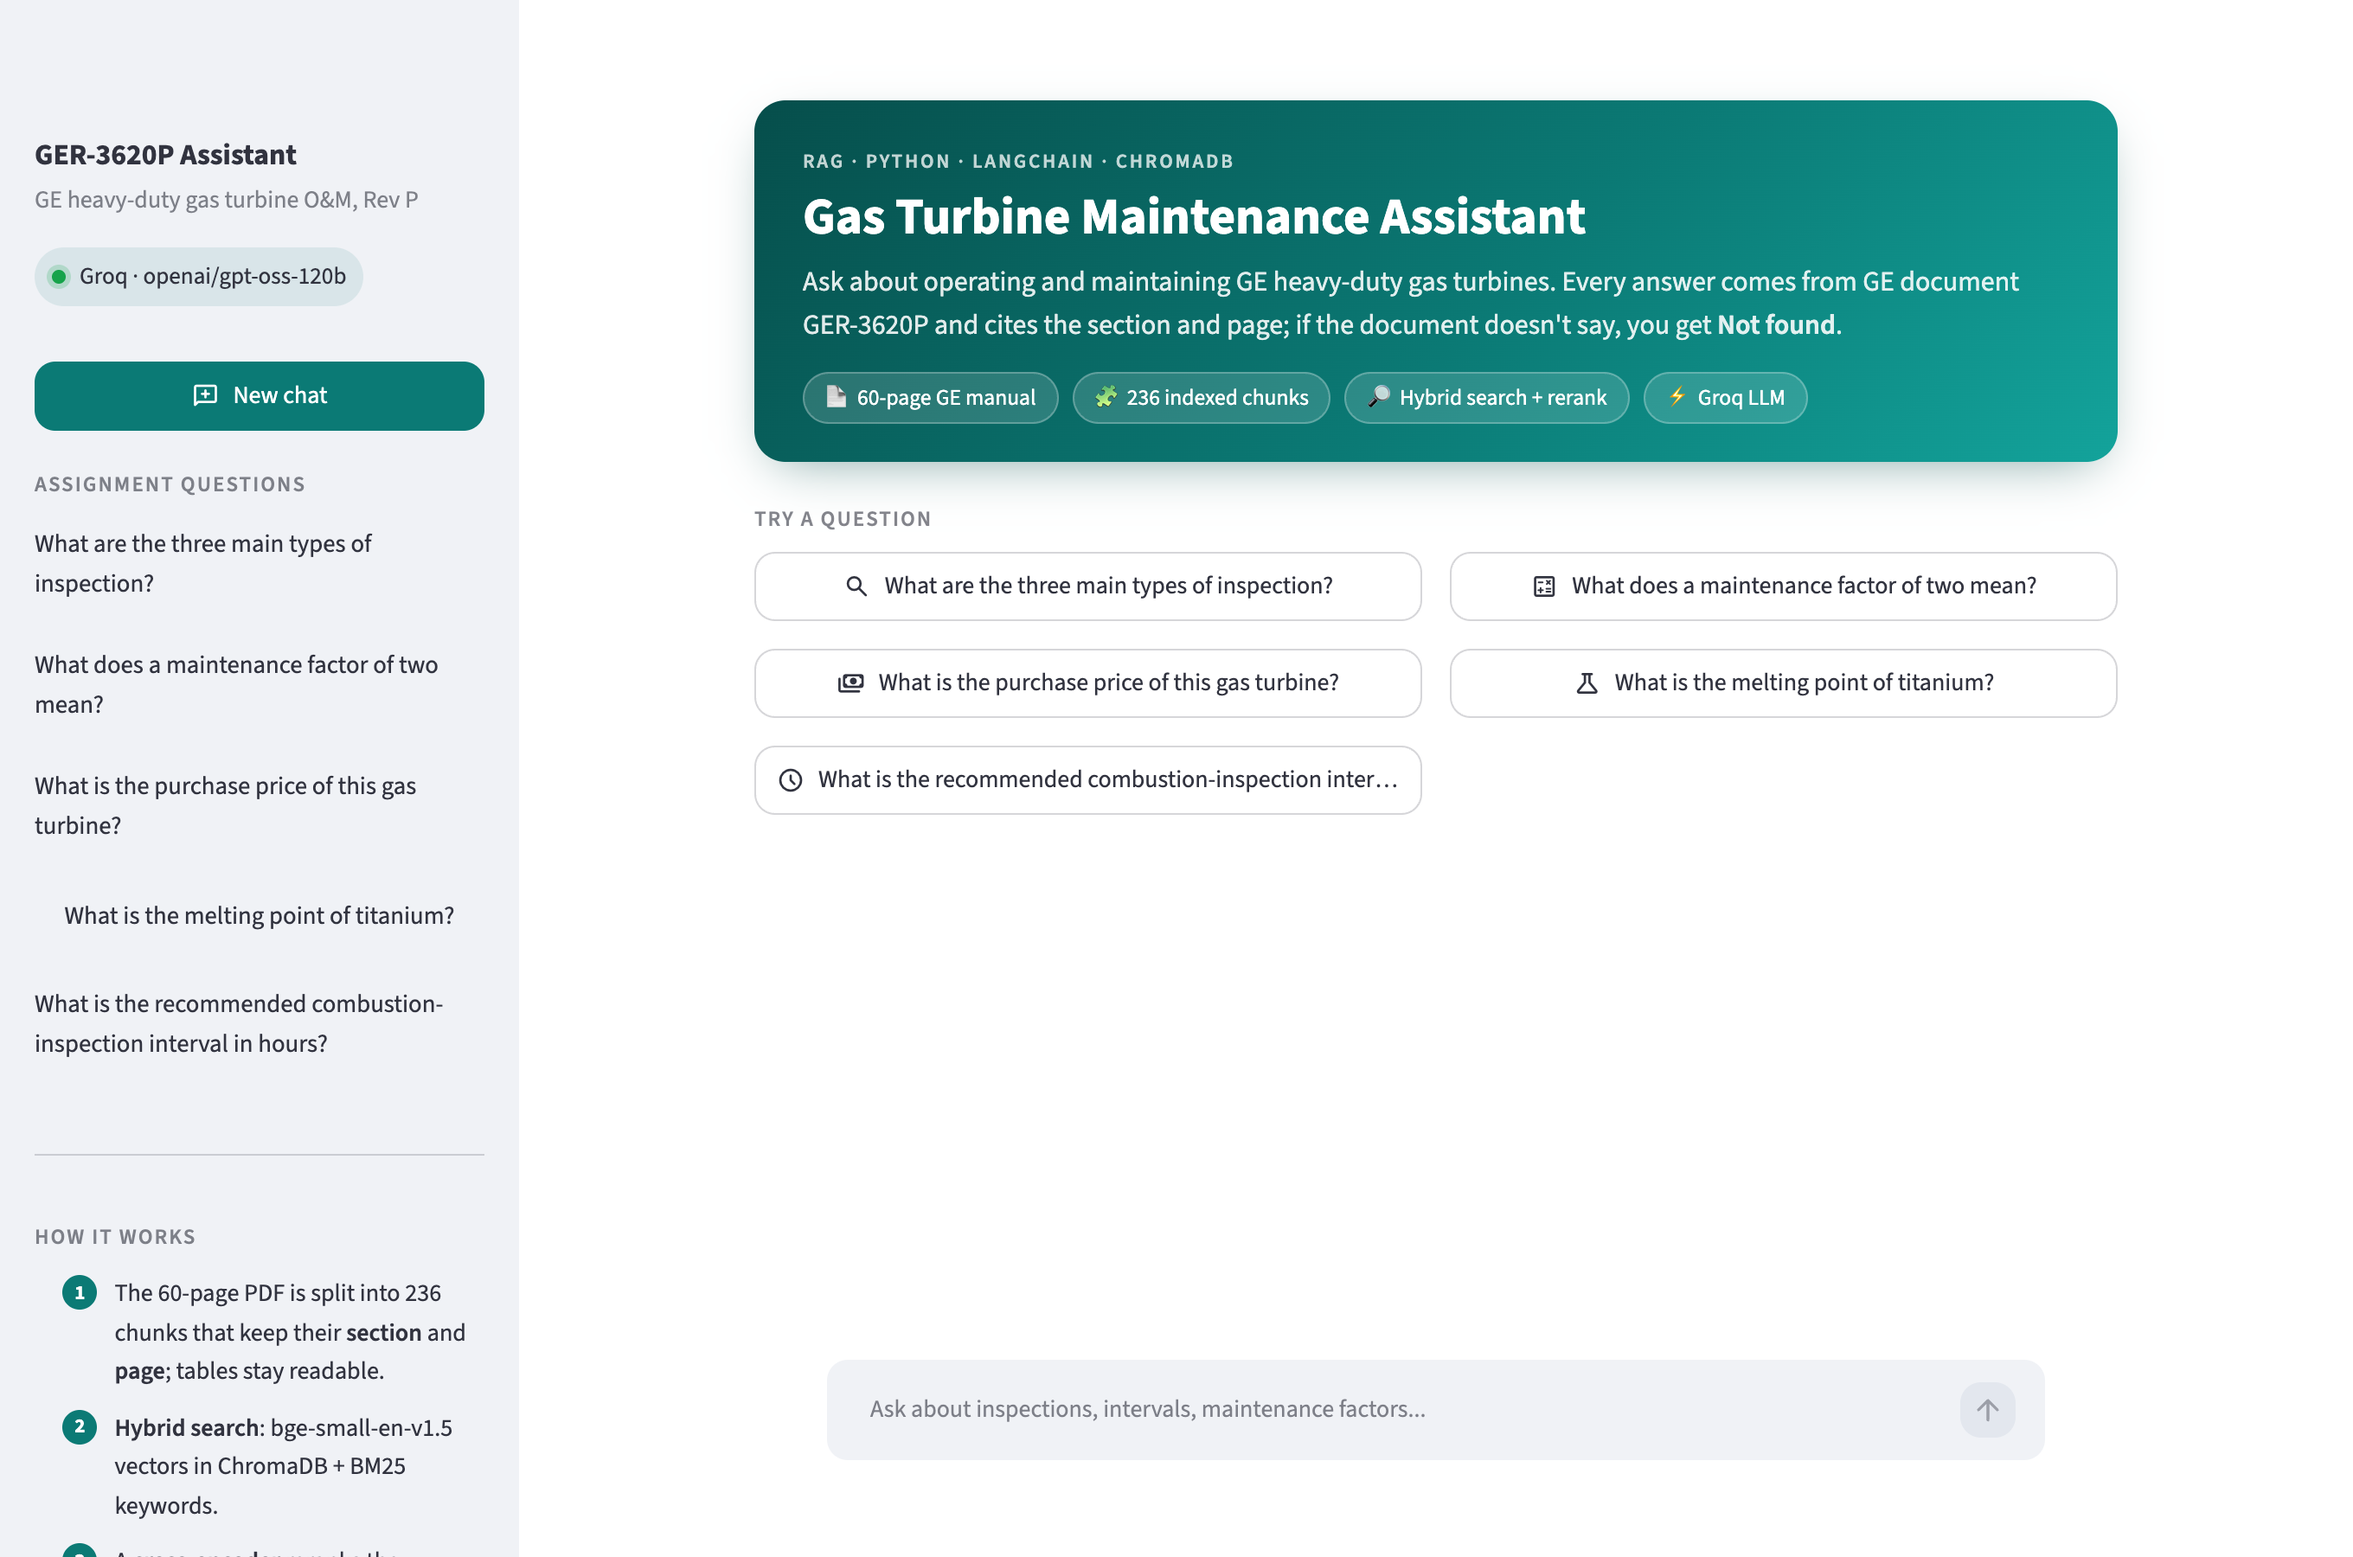
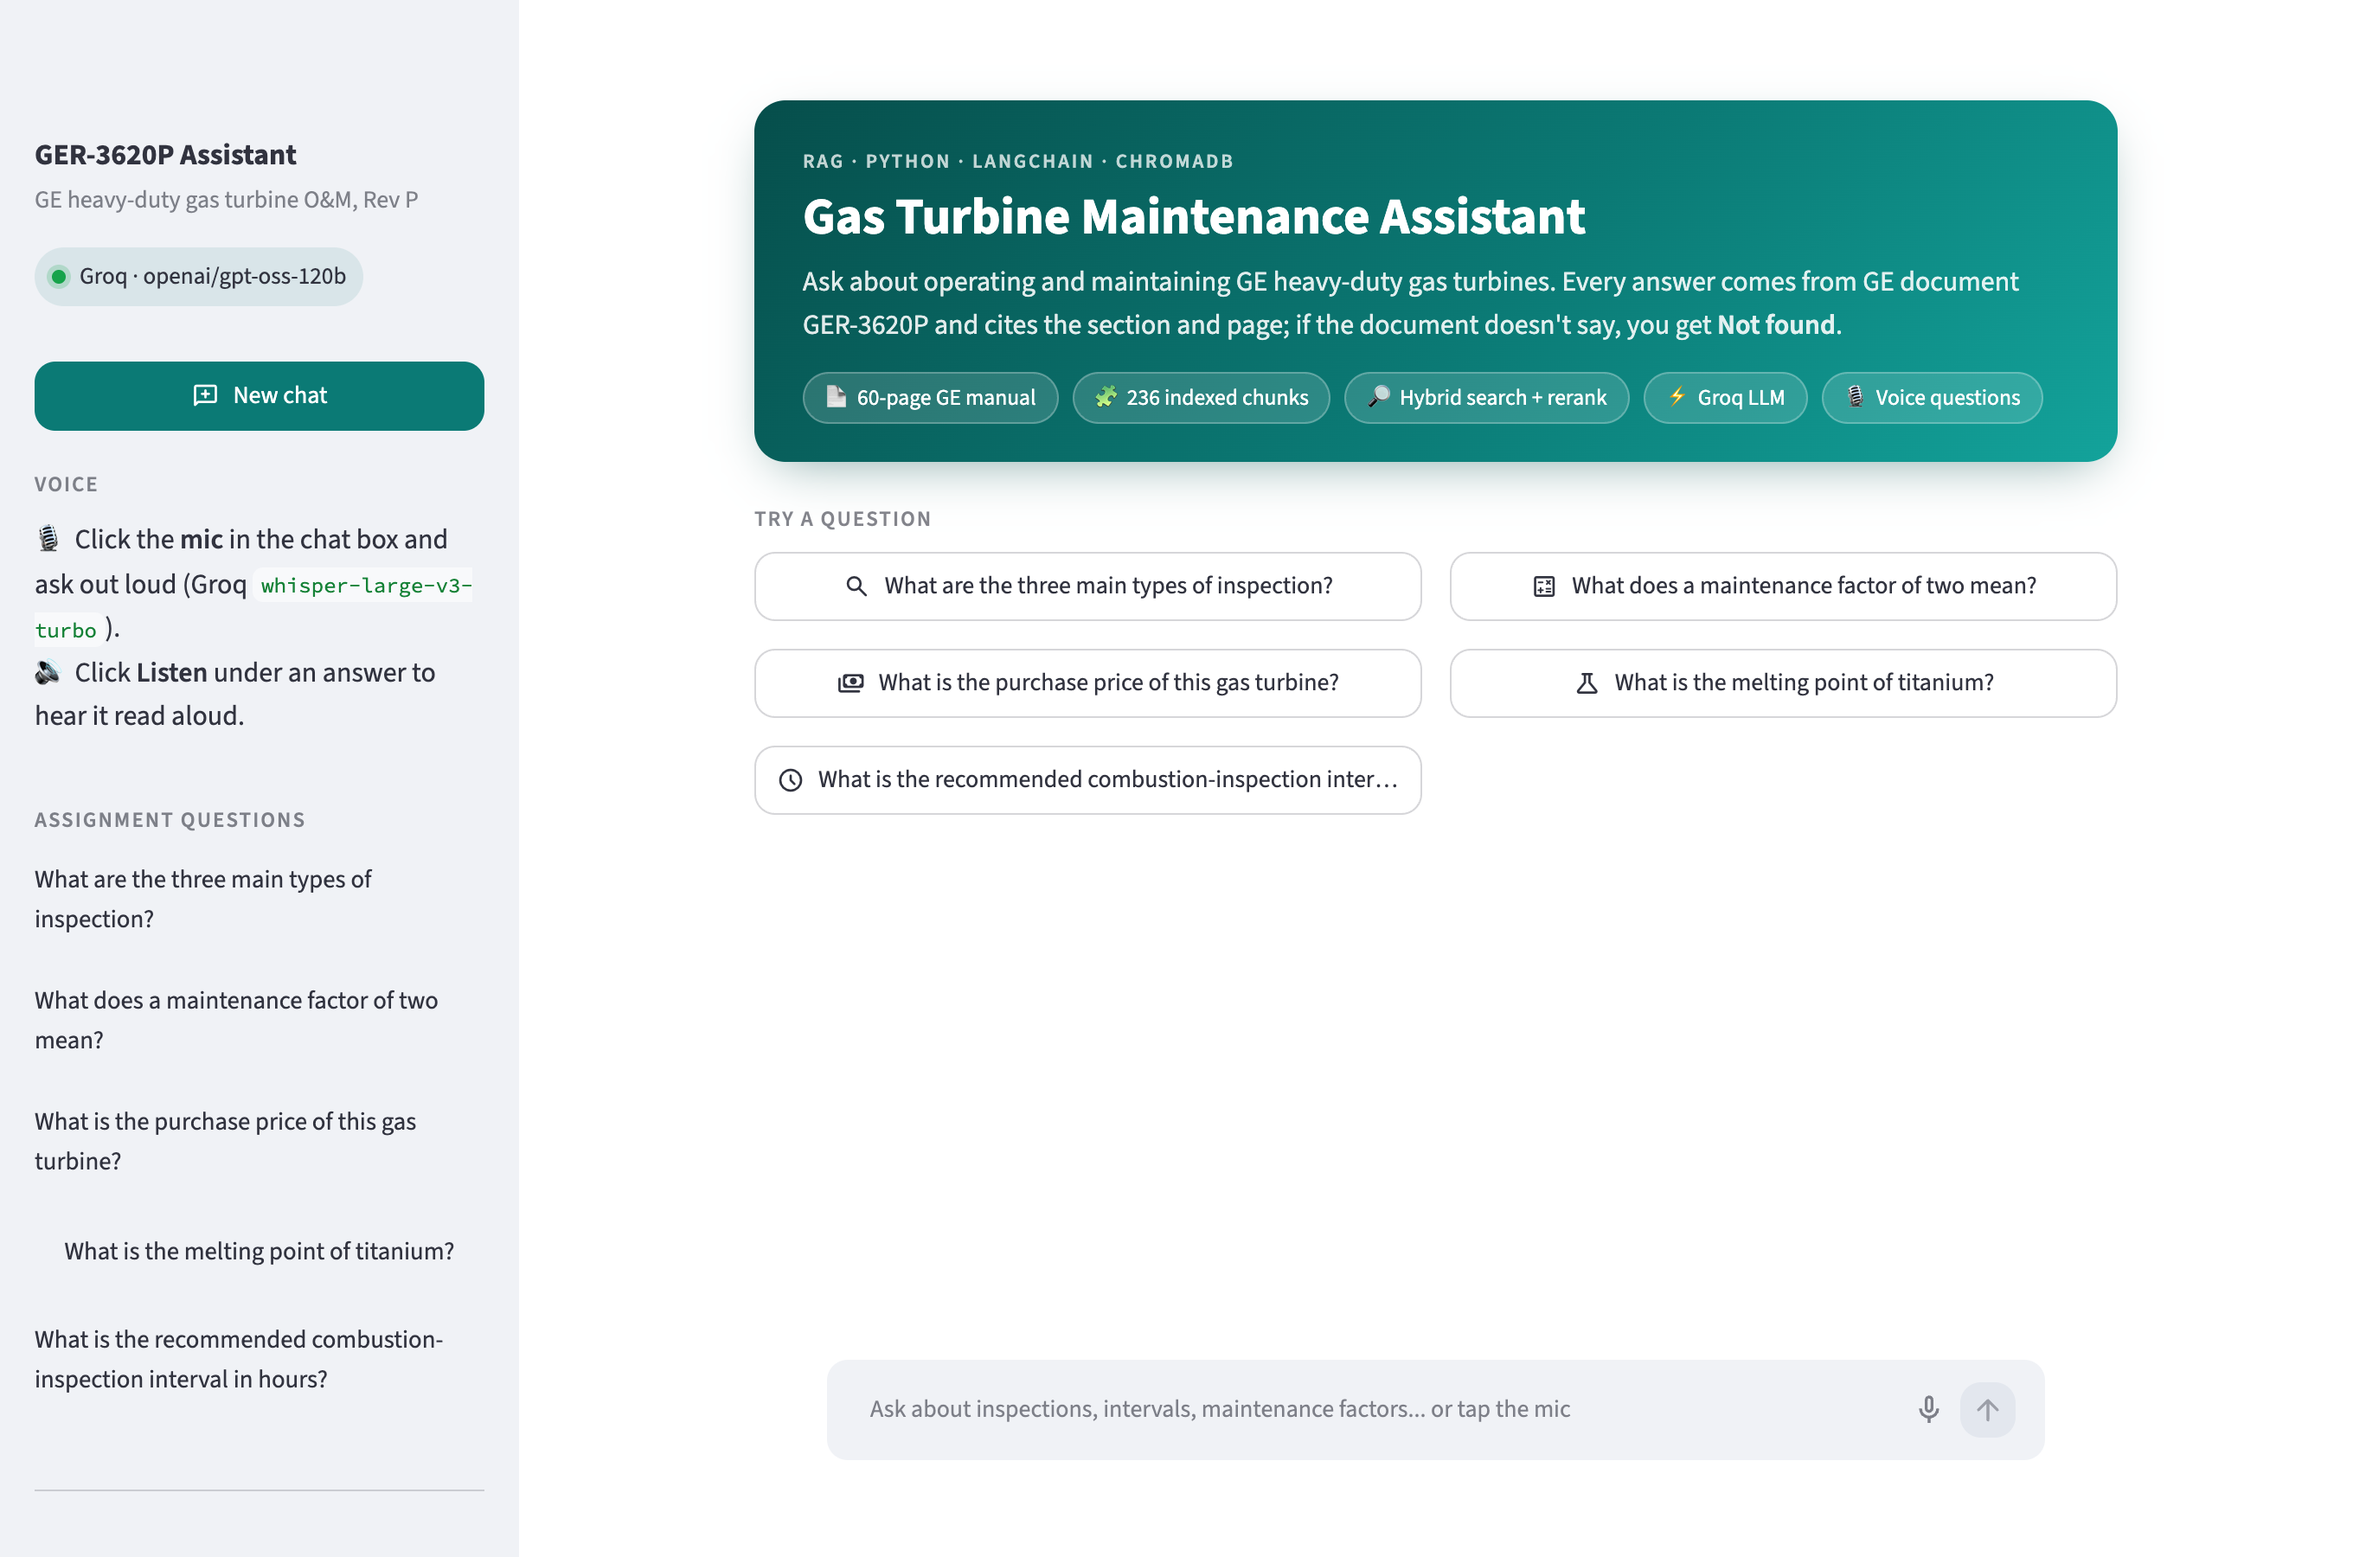
Web UI: voice questions (Groq Whisper) and read-aloud answers

diff --git a/app.py b/app.py
@@ -2,15 +2,18 @@
 
     streamlit run app.py        ->  http://localhost:8501
 """
+import base64
 import html
 import math
 import re
 import time
 
+import json
+
 import streamlit as st
 
-from config import EMBED_MODEL, GROQ_MODEL, MIN_RERANK_SCORE, ROOT, TOP_K
-from rag import Answer, answer, cite, excerpt_text, get_bm25, get_llm, get_reranker, get_vectorstore
+from config import EMBED_MODEL, GROQ_MODEL, MIN_RERANK_SCORE, ROOT, TOP_K, WHISPER_MODEL
+from rag import Answer, answer, cite, excerpt_text, get_bm25, get_llm, get_reranker, get_vectorstore, transcribe
 
 REPO_URL = "https://github.com/adityamukesh/genai-aditya"
 PDF_URL = (
@@ -66,6 +69,8 @@ sup.cite { background: rgba(11,122,117,.14); color: #0b7a75; border-radius: 6px;
 .notfound .d { opacity: .8; font-size: .92rem; }
 
 .meta { display: flex; flex-wrap: wrap; gap: 14px; font-size: .78rem; opacity: .6; margin-top: 10px; }
+.voice-tag { display: inline-flex; align-items: center; gap: 6px; font-size: .74rem; font-weight: 600; color: #0b7a75;
+  background: rgba(11,122,117,.10); border-radius: 999px; padding: 2px 10px; margin-bottom: 4px; }
 
 .gate { font-size: .85rem; padding: 8px 12px; border-radius: 10px; background: rgba(128,128,128,.08); margin-bottom: 10px; }
 .ex { border: 1px solid rgba(128,128,128,.2); border-radius: 12px; padding: 10px 12px; margin-bottom: 10px; }
@@ -113,6 +118,51 @@ def answer_html(text: str) -> str:
     return re.sub(r"\[(\d+)\]", r'<sup class="cite">\1</sup>', text)
 
 
+LISTEN_BUTTON = """<!doctype html>
+<meta charset="utf-8">
+<style>
+  body { margin: 0; background: transparent; font-family: -apple-system, "Source Sans Pro", sans-serif; }
+  button { font-weight: 600; font-size: 13px; color: #0b7a75; background: rgba(11,122,117,.08);
+    border: 1px solid rgba(11,122,117,.35); border-radius: 999px; padding: 6px 14px; cursor: pointer; }
+  button:hover { background: rgba(11,122,117,.16); }
+</style>
+<button id="b">🔊 Listen</button>
+<script>
+  const text = __TEXT__;
+  const b = document.getElementById("b");
+  const synth = window.speechSynthesis;
+  b.onclick = () => {
+    if (synth.speaking) { synth.cancel(); b.textContent = "🔊 Listen"; return; }
+    const u = new SpeechSynthesisUtterance(text);
+    u.lang = "en-US";
+    const voice = synth.getVoices().find(v => /en-US/.test(v.lang) && /Samantha|Google US English|Natural/.test(v.name));
+    if (voice) u.voice = voice;
+    u.onend = () => { b.textContent = "🔊 Listen"; };
+    b.textContent = "⏹ Stop";
+    synth.speak(u);
+  };
+</script>
+"""
+
+
+def spoken(ans: Answer) -> str:
+    """Answer text tidied for text-to-speech: no [n] tags, units spelled out."""
+    if not ans.found:
+        return "Not found. The document does not contain the answer to this question."
+    text = re.sub(r"\s*\[\d+\]", "", ans.text)
+    text = re.sub(r"(\d) h\b", r"\1 hours", text)
+    where = "; ".join(cite(d).replace(" > ", ", ") for d in ans.references)
+    return f"{text} Source: {where}."
+
+
+def listen_button(ans: Answer) -> None:
+    # The text is model output, so it is JSON-encoded with <, > and & escaped (no way to close the
+    # <script>), and the button is served as a data: URL, an opaque origin with no access to the app.
+    text = json.dumps(spoken(ans)).replace("<", "\\u003c").replace(">", "\\u003e").replace("&", "\\u0026")
+    page = LISTEN_BUTTON.replace("__TEXT__", text)
+    st.iframe("data:text/html;base64," + base64.b64encode(page.encode()).decode(), height=40)
+
+
 def relevance(score: float) -> float:
     return 1 / (1 + math.exp(-score / 2))  # cross-encoder logit -> 0..1 for the bar
 
@@ -140,6 +190,7 @@ def render_answer(ans: Answer, seconds: float) -> None:
         f"<span>▤ {len(ans.candidates)} excerpts ranked</span></div>",
         unsafe_allow_html=True,
     )
+    listen_button(ans)
 
     with st.expander("How this answer was found", icon=":material/manage_search:"):
         best = ans.candidates[0][1] if ans.candidates else float("-inf")
@@ -174,6 +225,14 @@ def sidebar(chunks: int) -> None:
         if st.button("New chat", icon=":material/add_comment:", width="stretch", type="primary"):
             st.session_state.history = []
             st.rerun()
+
+        st.markdown('<div class="section-label">Voice</div>', unsafe_allow_html=True)
+        st.markdown(
+            f"🎙 Click the **mic** in the chat box and ask out loud (Groq `{WHISPER_MODEL}`).<br>"
+            "🔊 Click **Listen** under an answer to hear it read aloud.",
+            unsafe_allow_html=True,
+        )
+        st.write("")
 
         st.markdown('<div class="section-label">Assignment questions</div>', unsafe_allow_html=True)
         for i, q in enumerate(EXAMPLES):
@@ -211,12 +270,23 @@ def main() -> None:
           <div class="chips">
             <span class="chip">📄 60-page GE manual</span><span class="chip">🧩 {chunks} indexed chunks</span>
             <span class="chip">🔎 Hybrid search + rerank</span><span class="chip">⚡ Groq LLM</span>
+            <span class="chip">🎙 Voice questions</span>
           </div></div>""",
         unsafe_allow_html=True,
     )
 
-    question = st.chat_input("Ask about inspections, intervals, maintenance factors...")
-    question = st.session_state.pop("pending", None) or question
+    submitted = st.chat_input(
+        "Ask about inspections, intervals, maintenance factors... or tap the mic", accept_audio=True
+    )
+    question, by_voice = st.session_state.pop("pending", None), False
+    if not question and submitted:
+        question = (submitted.text or "").strip()
+        if submitted.audio is not None:
+            with st.spinner("Transcribing your question..."):
+                question = transcribe(submitted.audio.getvalue(), submitted.audio.name or "question.wav")
+            by_voice = True
+            if not question:
+                st.toast("Couldn't hear a question, please try again.", icon=":material/mic_off:")
 
     if not st.session_state.history and not question:
         st.markdown('<div class="section-label">Try a question</div>', unsafe_allow_html=True)
@@ -226,12 +296,16 @@ def main() -> None:
 
     for turn in st.session_state.history:
         with st.chat_message("user", avatar=":material/person:"):
+            if turn.get("voice"):
+                st.markdown('<span class="voice-tag">🎙 Asked by voice</span>', unsafe_allow_html=True)
             st.markdown(html.escape(turn["question"]))
         with st.chat_message("assistant", avatar=":material/precision_manufacturing:"):
             render_answer(turn["answer"], turn["seconds"])
 
     if question:
         with st.chat_message("user", avatar=":material/person:"):
+            if by_voice:
+                st.markdown('<span class="voice-tag">🎙 Asked by voice</span>', unsafe_allow_html=True)
             st.markdown(html.escape(question))
         with st.chat_message("assistant", avatar=":material/precision_manufacturing:"):
             with st.spinner("Searching GER-3620P..."):
@@ -239,7 +313,7 @@ def main() -> None:
                 result = answer(question)
                 seconds = time.perf_counter() - start
             render_answer(result, seconds)
-        st.session_state.history.append({"question": question, "answer": result, "seconds": seconds})
+        st.session_state.history.append({"question": question, "answer": result, "seconds": seconds, "voice": by_voice})
 
 
 main()

diff --git a/rag.py b/rag.py
@@ -32,6 +32,7 @@ from config import (
     NOT_FOUND,
     RERANK_MODEL,
     TOP_K,
+    WHISPER_MODEL,
 )
 
 SYSTEM_PROMPT = """You are a maintenance assistant for GE heavy-duty gas turbines.
@@ -209,3 +210,48 @@ def answer(question: str) -> Answer:
     found = text != NOT_FOUND
     note = "" if found else f"The LLM found no answer in the top {len(ranked)} excerpts."
     return Answer(question, text, found, refs, ranked, mode, note)
+
+
+# Domain words help Whisper spell model numbers and jargon ("7F.03", "DLN") correctly.
+WHISPER_HINT = (
+    "Gas turbine maintenance, GER-3620P: combustion inspection, hot gas path, major inspection, DLN, "
+    "maintenance factor, factored hours, 6B.03, 7E.03, 9E.03, 7F.03, 9F.03, 7HA, borescope."
+)
+
+
+def is_silent(audio: bytes, threshold: int = 60) -> bool:
+    """True when a 16-bit PCM WAV recording carries no speech. Whisper invents text
+    ("Thank you.") for silent clips, so those are rejected before transcription.
+    Measured RMS: room noise ~35, quiet speech ~150, normal speech ~2,000+."""
+    import io
+    import wave
+    from array import array
+
+    try:
+        with wave.open(io.BytesIO(audio)) as w:
+            if w.getsampwidth() != 2:
+                return False
+            samples = array("h", w.readframes(w.getnframes()))
+    except (wave.Error, EOFError):
+        return False  # not a WAV we can inspect; let Whisper decide
+    if not samples:
+        return True
+    rms = (sum(x * x for x in samples[::4]) / len(samples[::4])) ** 0.5
+    return rms < threshold
+
+
+def transcribe(audio: bytes, filename: str = "question.wav") -> str:
+    """Speech-to-text for voice questions (Groq Whisper); "" when nothing was said."""
+    from groq import Groq
+
+    if is_silent(audio):
+        return ""
+
+    result = Groq().audio.transcriptions.create(
+        file=(filename, audio), model=WHISPER_MODEL, language="en", prompt=WHISPER_HINT
+    )
+    text = result.text.strip()
+    # Whisper's stock outputs for noise, not real questions.
+    if text.lower().strip(" .!?") in {"", "thank you", "thanks", "thanks for watching", "you", "bye"}:
+        return ""
+    return text

diff --git a/config.py b/config.py
@@ -17,6 +17,7 @@ RERANK_MODEL = "Xenova/ms-marco-MiniLM-L-6-v2"
 
 # LLM served by Groq (free tier). Override with GROQ_MODEL in .env.
 GROQ_MODEL = os.getenv("GROQ_MODEL", "openai/gpt-oss-120b")
+WHISPER_MODEL = os.getenv("WHISPER_MODEL", "whisper-large-v3-turbo")  # speech-to-text for voice questions
 
 # Chunking
 CHUNK_SIZE = 1000

diff --git a/README.md b/README.md
@@ -29,6 +29,7 @@
 | 🔎 **Hybrid retrieval** | Vector search (ChromaDB) + BM25 keywords, then a cross-encoder reranker. |
 | 🔗 **Citations can't be invented** | Page references come from stored chunk metadata, not from the LLM's text. |
 | 💬 **Two interfaces** | A terminal CLI and a Streamlit web UI on `localhost:8501`. |
+| 🎙 **Voice questions** | Click the mic in the web UI and ask out loud (Groq Whisper); 🔊 **Listen** reads any answer aloud. |
 | ✅ **Tested** | `eval.py` checks 11 questions, answerable and not, for correct facts and pages: **11/11 pass**. |
 
 **Stack:** Python 3.12 · LangChain · ChromaDB · FastEmbed (local ONNX embeddings + cross-encoder reranker) · BM25 · PyMuPDF · Groq (`openai/gpt-oss-120b`) · Streamlit
@@ -130,6 +131,10 @@ streamlit run app.py        # opens http://localhost:8501
 - Answers have numbered citations and a **Sources** list with section, figure and page.
 - Questions the PDF doesn't answer get a red **Not found** card instead of a guess.
 - **How this answer was found** shows the relevance-gate decision and every retrieved excerpt with its rerank score.
+- 🎙 **Ask by voice:** click the mic in the chat box, speak, and click ✓. Groq `whisper-large-v3-turbo` transcribes
+  the question, with domain hints so model numbers like "7F.03" come out right. Silent recordings are rejected,
+  so Whisper can't invent a question.
+- 🔊 **Listen:** every answer has a button that reads it aloud, including its source, using the browser's speech engine.
 
 **Home screen**
 
@@ -319,6 +324,8 @@ best-matching sentences of the top excerpt, with the same references and the sam
 - **Models:** the embeddings (`BAAI/bge-small-en-v1.5`) and the reranker (`Xenova/ms-marco-MiniLM-L-6-v2`) run
   locally through FastEmbed/ONNX, so no GPU or PyTorch is needed. Only answer generation calls Groq.
   `GROQ_MODEL` in `.env` switches the model.
+- **Voice:** the first time you click the mic, Chrome asks for microphone permission; choose *Allow*. Speech-to-text
+  uses your Groq key. Read-aloud uses the browser's built-in voices, so it needs no key and no extra install.
 - **Rate limits:** the Groq free tier allows 8,000 tokens per minute. The client retries automatically when that
   limit is hit.
 - **The PDF is not committed:** the GE document is marked *Non-Public* in its footer, so the repository links to the
